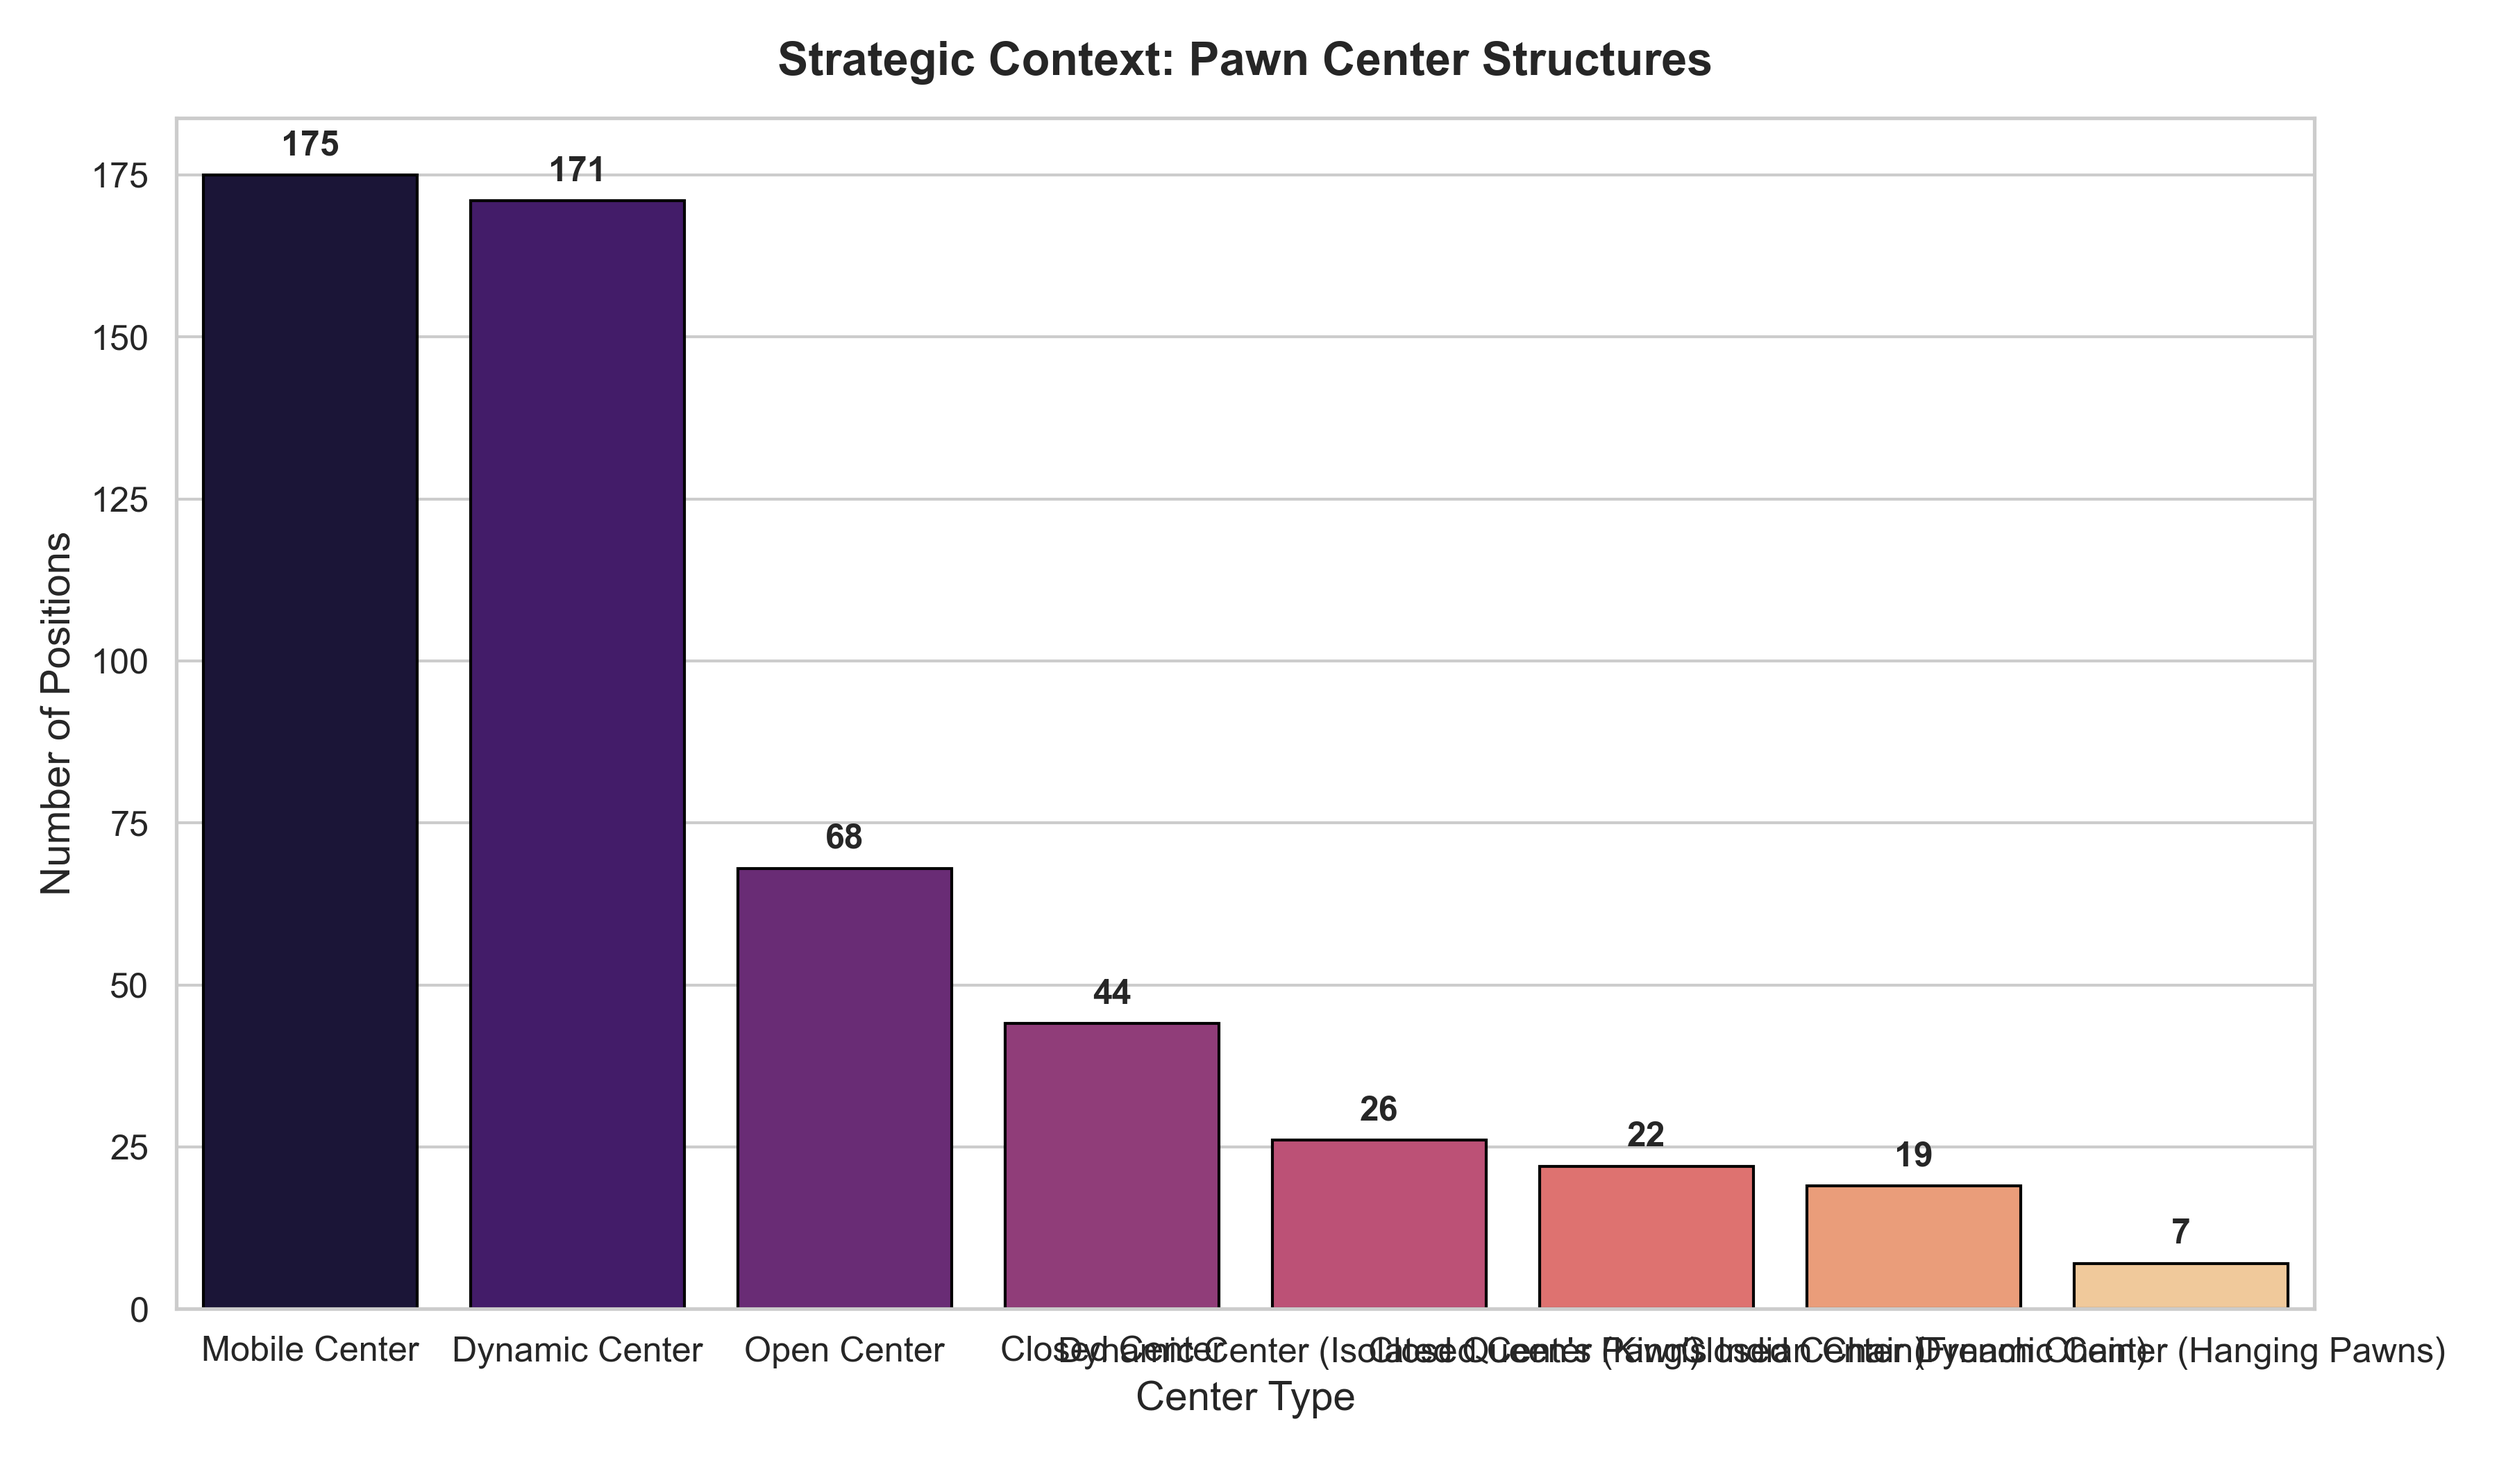
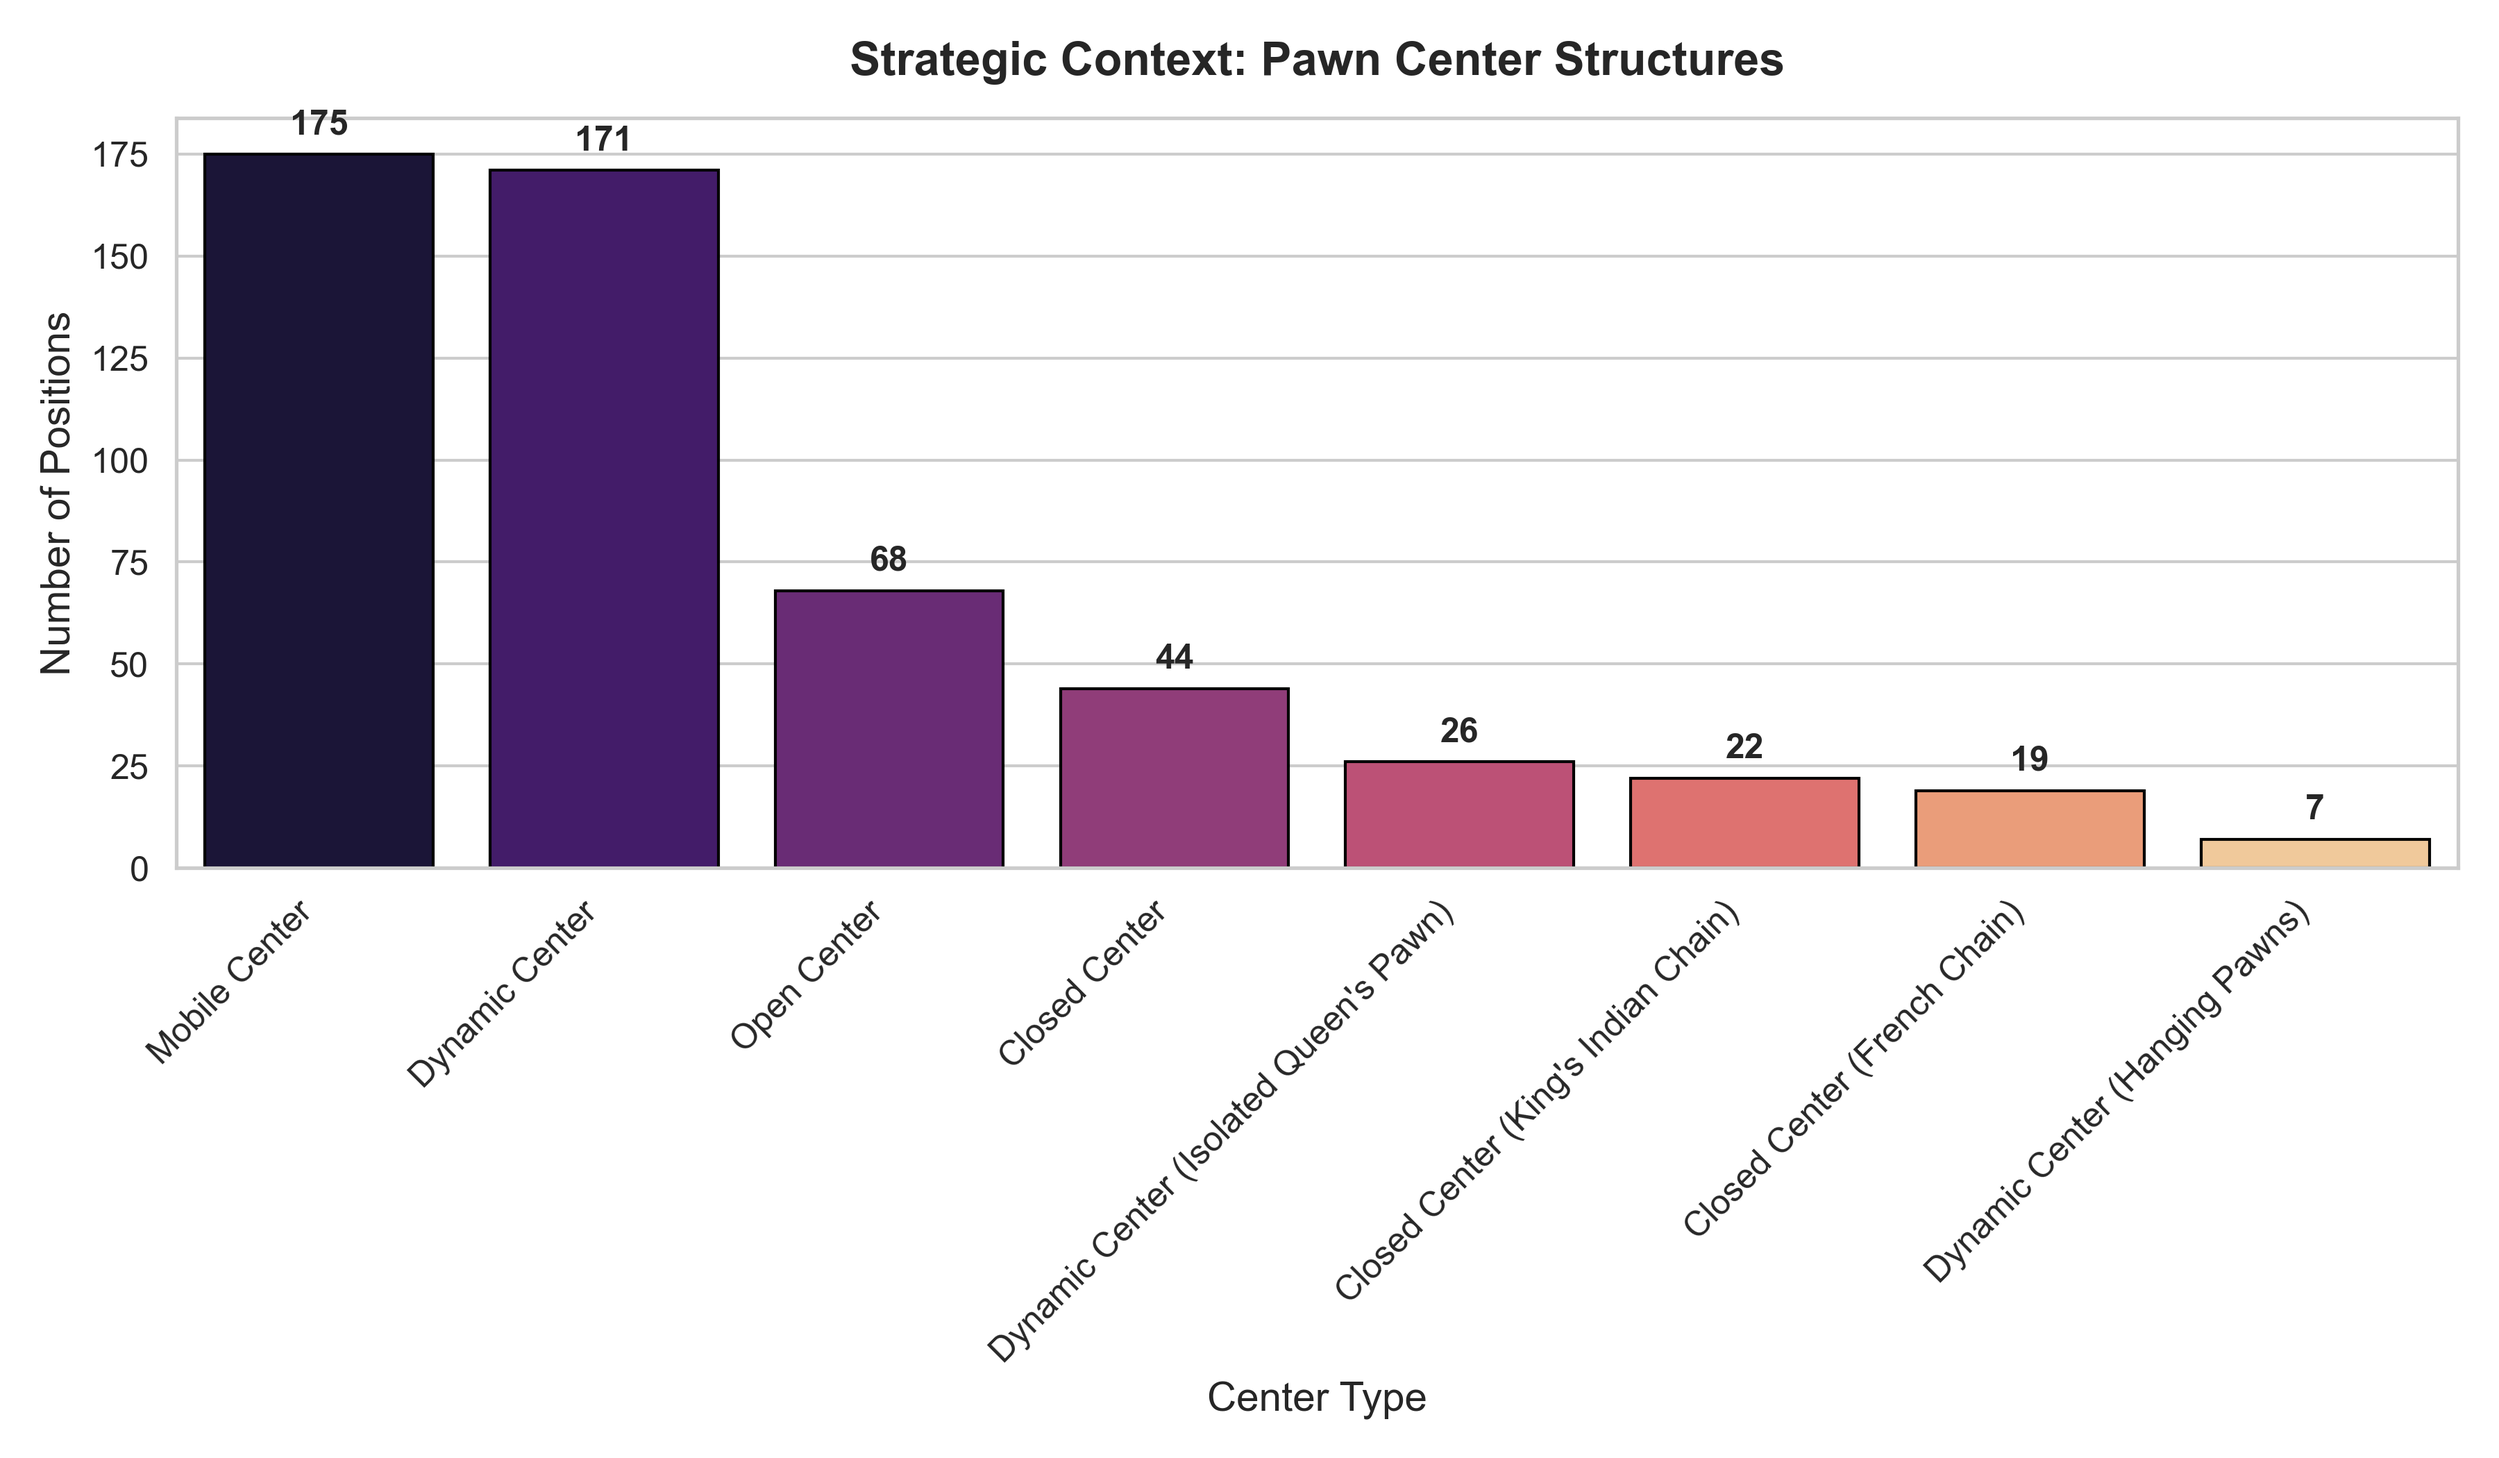
regenerated diagram center

diff --git a/docs/outputLTCWch/generaDiagrammi.py b/docs/outputLTCWch/generaDiagrammi.py
@@ -63,6 +63,10 @@ for p in ax.patches:
                 ha='center', va='center', fontsize=12, fontweight='bold', xytext=(0, 10), 
                 textcoords='offset points')
 
+# --- INIZIO MODIFICA: Risoluzione etichette sovrapposte ---
+plt.xticks(rotation=45, ha='right', fontsize=12)
+# --- FINE MODIFICA ---
+
 plt.tight_layout()
 plt.savefig('Fig2_Center_Structures.png', dpi=300)
 print("[OK] Saved: Fig2_Center_Structures.png")
